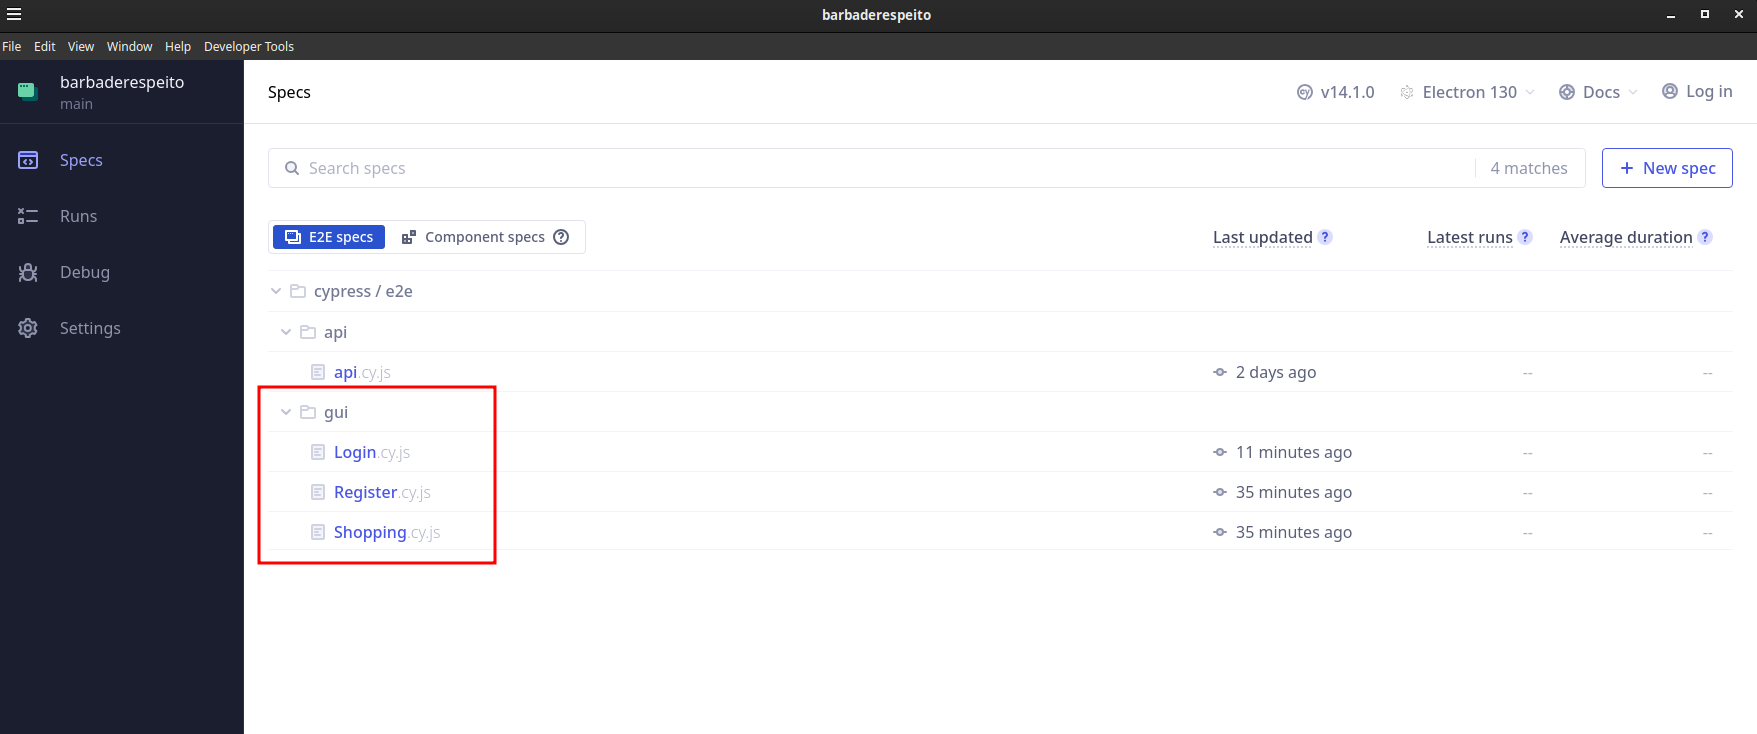
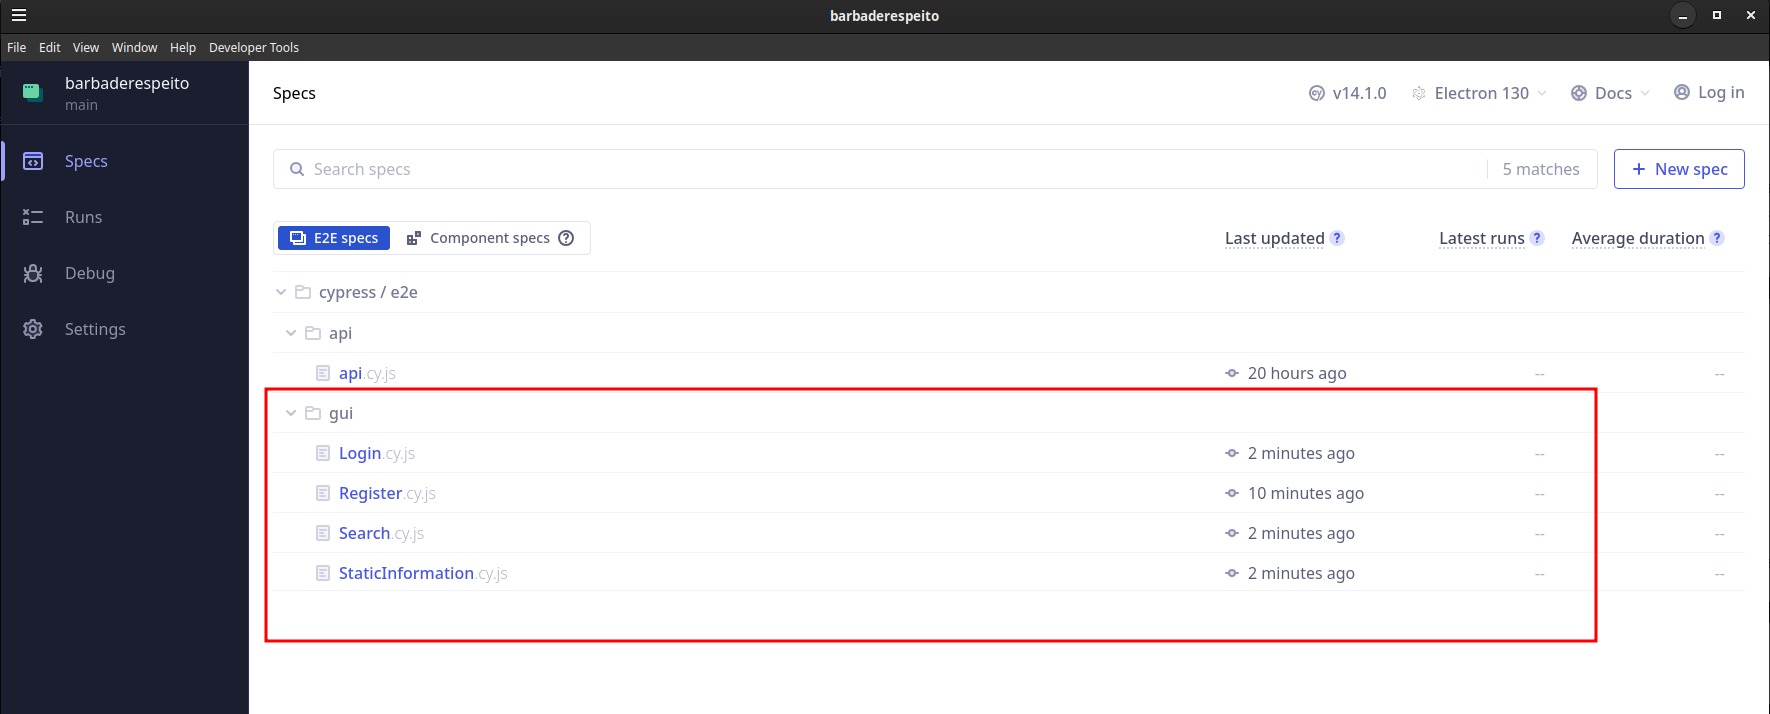
update12

diff --git a/README.md b/README.md
@@ -46,7 +46,7 @@ Legal, os pre-requisitos estão prontos. ☑
 
 5. Apos Clicar em *E2E Testings* navegador desejado por padrão o Cypress necessita que o navegador esteja instalado em sua maquina para poder utilizar o mesmo (recomendo utilizar o google chrome)
 ![Suite-Cypress-Step02](images/step02.png)
-6. após isso só escolher se quer executar os testes de *API* ou *E2E* Cada arquivo reune os testes referentes a uma verificação do sistema sendo os testes de *GUI* Testes E2E na Aplicação [Estante-Virtual](https://www.estantevirtual.com.br/) os testes foram divididos em três categorias sendo elas testes de **Login**, **Cadastro** e **Compras**.
+6. após isso só escolher se quer executar os testes de *API* ou *E2E* Cada arquivo reune os testes referentes a uma verificação do sistema sendo os testes de *GUI* Testes E2E na Aplicação [Estante-Virtual](https://www.estantevirtual.com.br/) os testes E2E foram divididos em quatro categorias sendo elas testes de **Login**, **Cadastro**, **Pesquisas** e **Validação de informações Estaticas**.
 ![Suite-Cypress-Step03](images/step03.png)
 7. Por fim Temos os testes de API onde para eles utilizamos a plataforma publica `https://reqres.in`.
 ![Suite-Cypress-Step04](images/step04.png)
